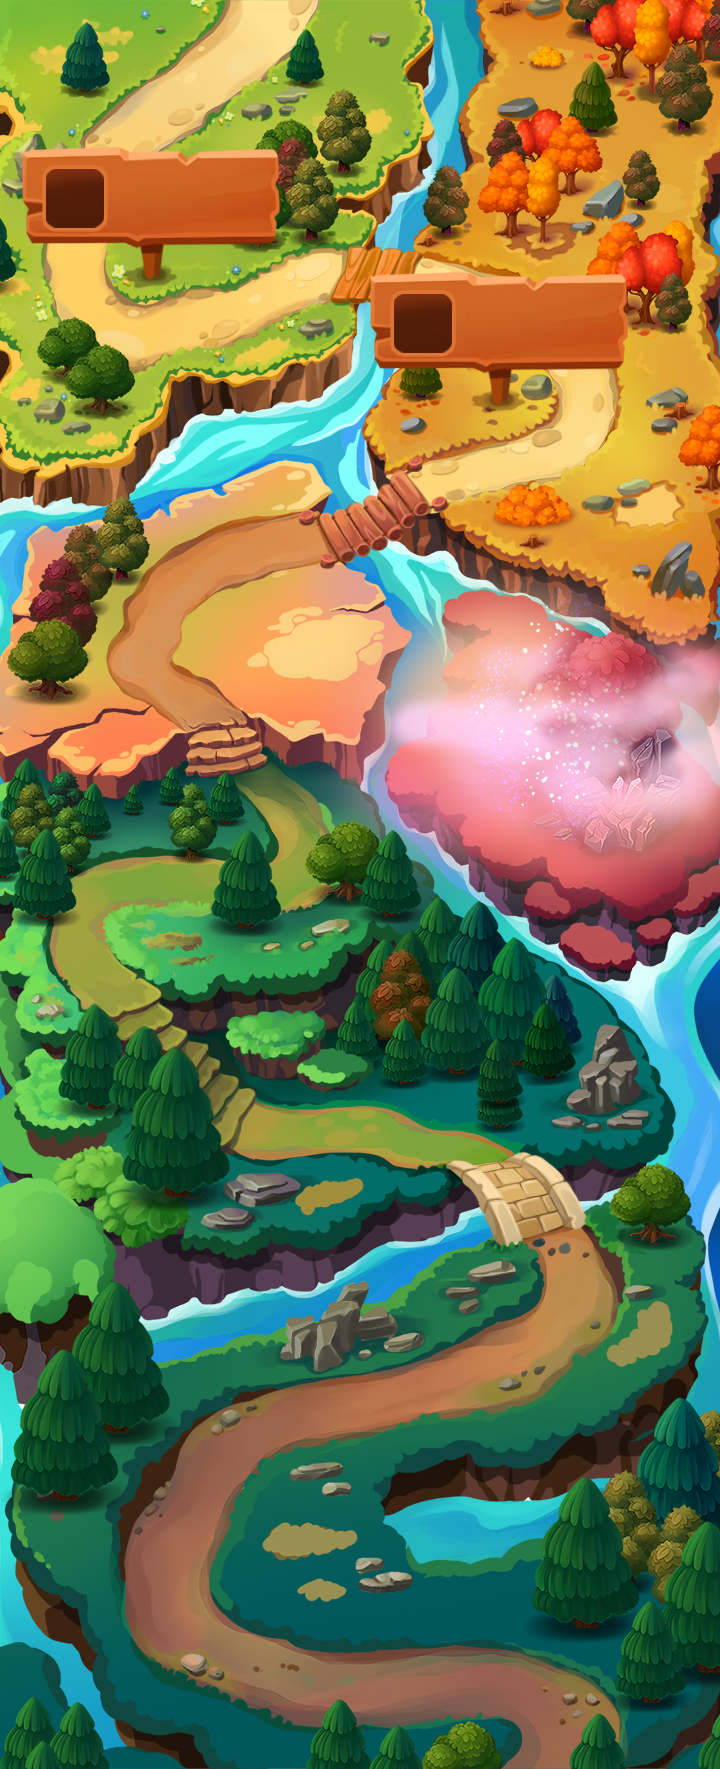
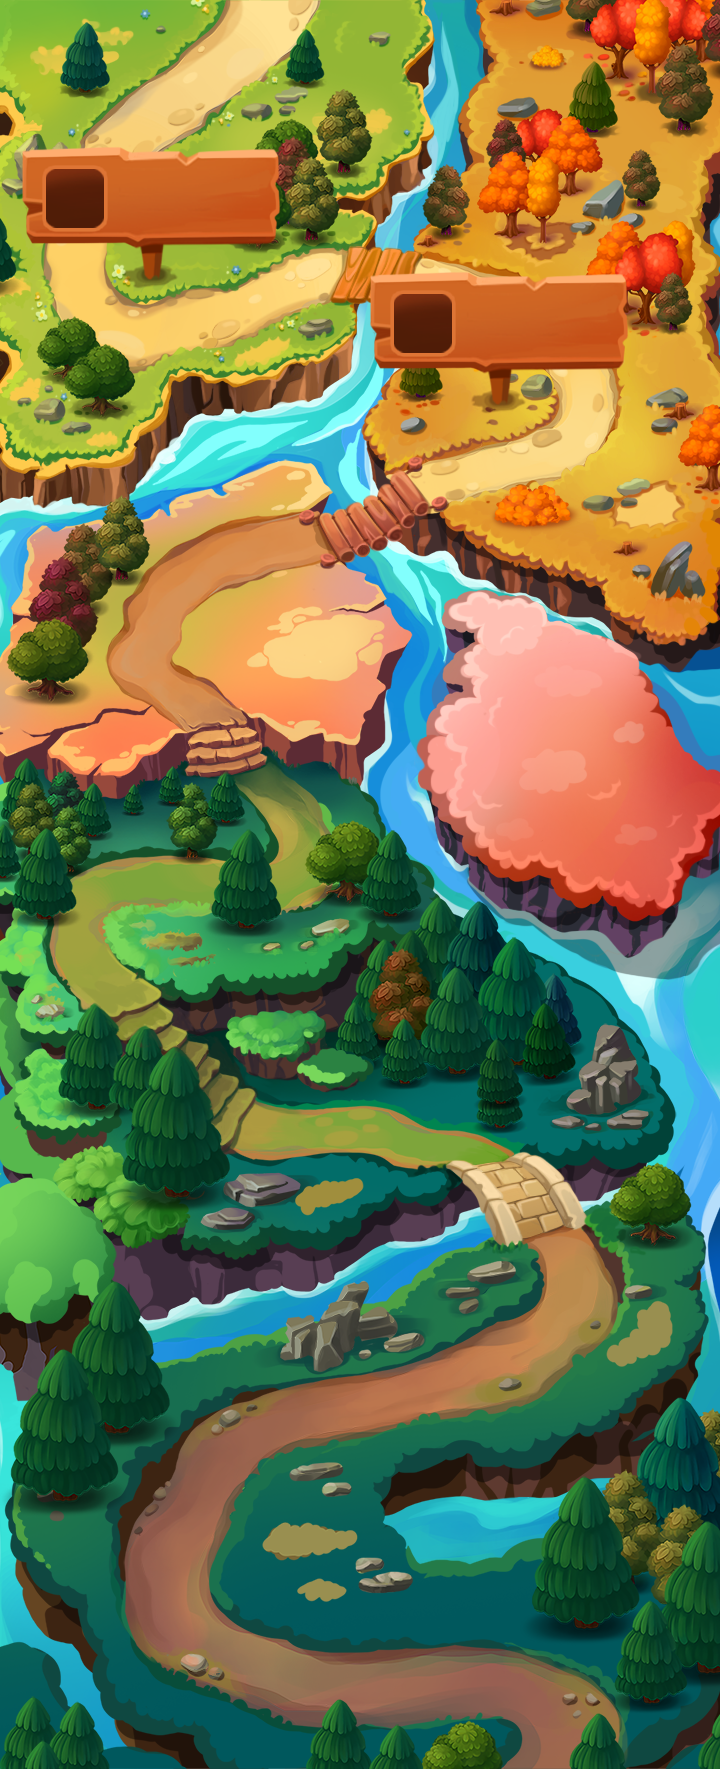
refact map

Changed region(s): [[0.4583, 0.2798, 1.0, 0.6218], [0.7639, 0.684, 0.7944, 0.7151], [0.4278, 0.2798, 0.4583, 0.3109]]

diff --git a/src/scripts/scenes/Map.ts b/src/scripts/scenes/Map.ts
@@ -12,6 +12,8 @@ let pointMap: any = require("./../../assets/images/icons/point-map.png");
 let pbChapterMap: any = require("./../../assets/images/modal/pb-chapter-map.png");
 let partProgress: any = require("./../../assets/images/modal/part-progress.png");
 let mapBtn: any = require("./../../assets/images/modal/map-btn.png");
+let mapCloud: any = require("./../../assets/images/event/map-cloud.png");
+let mapEventFarm: any = require("./../../assets/images/event/map-event-farm.png");
 
 class Map extends Phaser.Scene {
   constructor() {
@@ -28,6 +30,8 @@ class Map extends Phaser.Scene {
   public eventScore: Phaser.GameObjects.Text;
   public eventPlace: Phaser.GameObjects.Text;
   public eventTime: Phaser.GameObjects.Text;
+  public eventCloud: Phaser.GameObjects.Sprite;
+  public eventMapFarm: Phaser.GameObjects.Sprite;
 
   public click = click.bind(this);
   public clickShopBtn = clickShopBtn.bind(this);
@@ -55,6 +59,8 @@ class Map extends Phaser.Scene {
     this.load.image('pb-chapter-map', pbChapterMap);
     this.load.image('part-progress', partProgress);
     this.load.image('map-btn', mapBtn);
+    this.load.image('map-cloud', mapCloud);
+    this.load.image('map-event-farm', mapEventFarm);
 
   }
 
@@ -251,31 +257,39 @@ class Map extends Phaser.Scene {
     // let eventIcon: Phaser.GameObjects.Graphics = this.add.graphics();
     // eventIcon.fillStyle(0xff0000, 1.0)
     //   .fillCircle(520, 740, 50);
-    
-    let zone: Phaser.GameObjects.Zone = this.add.zone(500, 690, 200, 100).setDepth(690).setOrigin(0.5, 0.5);
+    this.eventCloud = this.add.sprite(550, 750, 'map-cloud');
+    this.eventMapFarm = this.add.sprite(720, 730, 'map-event-farm').setOrigin(1, 0.5);
 
-    this.add.graphics({
-      fillStyle: {
-        color: 0xffffff,
-        alpha: 0.2
-      },
-    }).fillRect(zone.x, zone.y, zone.width, zone.height);
+    let zone: Phaser.GameObjects.Zone = this.add.zone(570, 720, 220, 160).setDropZone(undefined, () => {});
 
-    this.eventScore = this.add.text(520, 720, 'Твои очки: -', {
-      fontSize: '20px',
-      color: '#000',
+    // this.add.graphics({
+    //   fillStyle: {
+    //     color: 0xffffff,
+    //     alpha: 0.6
+    //   },
+    // }).fillRect(zone.x - zone.input.hitArea.width / 2, zone.y - zone.input.hitArea.height / 2, zone.width, zone.height);
+
+    this.eventScore = this.add.text(580, 675, '-', {
+      fontSize: '21px',
+      color: '#6e00c7',
       fontFamily: 'Shadow'
     }).setOrigin(0.5, 0.5);
 
-    this.eventPlace = this.add.text(520, 740, 'Твое место: -', {
-      fontSize: '20px',
-      color: '#000',
+    this.eventPlace = this.add.text(580, 720, '-', {
+      fontSize: '21px',
+      color: '#f0e8ce',
       fontFamily: 'Shadow'
     }).setOrigin(0.5, 0.5);
 
-    this.eventTime = this.add.text(520, 760, 'Время до: ', {
-      fontSize: '20px',
-      color: '#000',
+    this.add.text(580, 740, this.state.lang.eventLastTime, {
+      fontSize: '16px',
+      color: '#530d8e',
+      fontFamily: 'Shadow'
+    }).setOrigin(0.5, 0.5);
+
+    this.eventTime = this.add.text(580, 760, '-', {
+      fontSize: '24px',
+      color: '#cbff40',
       fontFamily: 'Shadow'
     }).setOrigin(0.5, 0.5)
     this.click(zone, (): void => {
@@ -303,9 +317,9 @@ class Map extends Phaser.Scene {
   public updateEvent(): void {
     if (this.state.progress.event.updateRaitings) {
       console.log(this.state.progress)
-      this.eventScore.setText('Твои очки: ' + this.state.progress.event.eventPoints);
-      this.eventPlace.setText('Твое место: ' + this.state.progress.event.userEventRaiting.place);
-      this.eventTime.setText('Осталось: ' + shortTime(this.state.progress.event.endTime, this.state.lang));
+      this.eventScore.setText(this.state.progress.event.eventPoints + ' ' + this.state.lang.eventScores);
+      this.eventPlace.setText(this.state.progress.event.userEventRaiting.place + ' ' + this.state.lang.eventPlace);
+      this.eventTime.setText(shortTime(this.state.progress.event.endTime, this.state.lang));
       this.state.progress.event.updateRaitings = false;
     }
     

diff --git a/src/scripts/langs.ts b/src/scripts/langs.ts
@@ -555,7 +555,8 @@ export default {
     offlineCollectorTime: 'Собиратель радуги работал',
     doubleProfit: 'Хочешь удвоить доход?',
     eventScores: 'очков',
-    eventPlace: 'место'
+    eventPlace: 'место',
+    eventLastTime: 'до конца ивента:'
   },
   en: {
     index: 'ru',
@@ -1120,5 +1121,6 @@ export default {
     offlineTime: 'Вас не было на ферме',
     offlineCollectorTime: 'Собиратель радуги работал',
     doubleProfit: 'Хочешь удвоить доход?',
+    eventLastTime: 'до конца ивента:'
   }
 }

diff --git a/src/scripts/scenes/Chicken/interval.ts b/src/scripts/scenes/Chicken/interval.ts
@@ -316,7 +316,7 @@ function interval(): void {
     // обновление времени евента
     if (this.state.progress.event.endTime > 0 && this.scene.isActive('Map')) {
       this.state.progress.event.endTime--;
-      this.game.scene.keys['Map'].eventTime.setText('Осталось: ' + shortTime(this.state.progress.event.endTime, this.state.lang));
+      this.game.scene.keys['Map'].eventTime.setText(shortTime(this.state.progress.event.endTime, this.state.lang));
     }
 
   }, callbackScope: this, loop: true });

diff --git a/src/scripts/scenes/Sheep/interval.ts b/src/scripts/scenes/Sheep/interval.ts
@@ -391,7 +391,7 @@ function interval(): void {
 
     if (this.state.progress.event.endTime > 0 && this.scene.isActive('Map')) {
       this.state.progress.event.endTime--;
-      this.game.scene.keys['Map'].eventTime.setText('Осталось: ' + shortTime(this.state.progress.event.endTime, this.state.lang));
+      this.game.scene.keys['Map'].eventTime.setText(shortTime(this.state.progress.event.endTime, this.state.lang));
     }
 
   }, callbackScope: this, loop: true });

diff --git a/src/scripts/scenes/Event/interval.ts b/src/scripts/scenes/Event/interval.ts
@@ -172,7 +172,7 @@ function interval(): void {
     if (this.state.progress.event.endTime > 0) {
       this.state.progress.event.endTime--;
       if ( this.scene.isActive('Map')) {
-        this.game.scene.keys['Map'].eventTime?.setText('Осталось: ' + shortTime(this.state.progress.event.endTime, this.state.lang));
+        this.game.scene.keys['Map'].eventTime?.setText(shortTime(this.state.progress.event.endTime, this.state.lang));
       } 
     }
 
